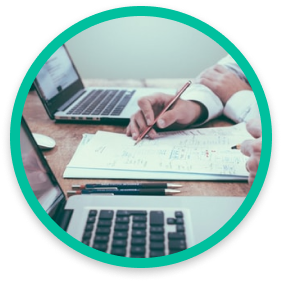
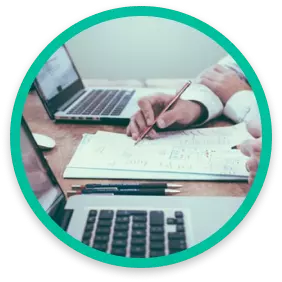
Melhoria SEO

diff --git a/app/src/components/Header/index.tsx b/app/src/components/Header/index.tsx
@@ -1,6 +1,5 @@
 import { useEffect, useState } from 'react';
 import Link from 'next/link';
-import { useHistory } from 'react-router';
 import { FiLogOut, FiMenu, FiX } from 'react-icons/fi';
 import { BiUserCircle } from 'react-icons/bi';
 import {
@@ -60,7 +59,10 @@ export function Header(): JSX.Element {
         <HeaderInfo>
           <div>
             <p>
-            A Gyan une profissionais freelancer e voluntários em uma única plataforma. Contratação rápida, gratuita e segura. Programadores, web designers, redatores e o que mais você precisar para o seu negócio.
+              A Gyan une profissionais freelancer e voluntários em uma única
+              plataforma. Contratação rápida, gratuita e segura. Programadores,
+              web designers, redatores e o que mais você precisar para o seu
+              negócio.
             </p>
           </div>
           <FiX onClick={() => setEsconder(true)} color={BRANCO} size={12} />

diff --git a/app/src/components/ComoFunciona/ComoCadastrar/index.tsx b/app/src/components/ComoFunciona/ComoCadastrar/index.tsx
@@ -2,7 +2,7 @@ import { Container, Content, Box, ContentBox } from './style';
 import ImgEllipse1 from '../../../assets/elipse-1.webp';
 import ImgEllipse2 from '../../../assets/elipse-2.webp';
 import ImgEllipse3 from '../../../assets/elipse-3.webp';
-import ImgEllipse4 from '../../../assets/elipse-4.webp';
+import ImgEllipse4 from '../../../assets/elipse-4.png';
 import Image from 'next/image';
 import { AZUL, LARANJA, VERDE } from 'src/styles/variaveis';
 
